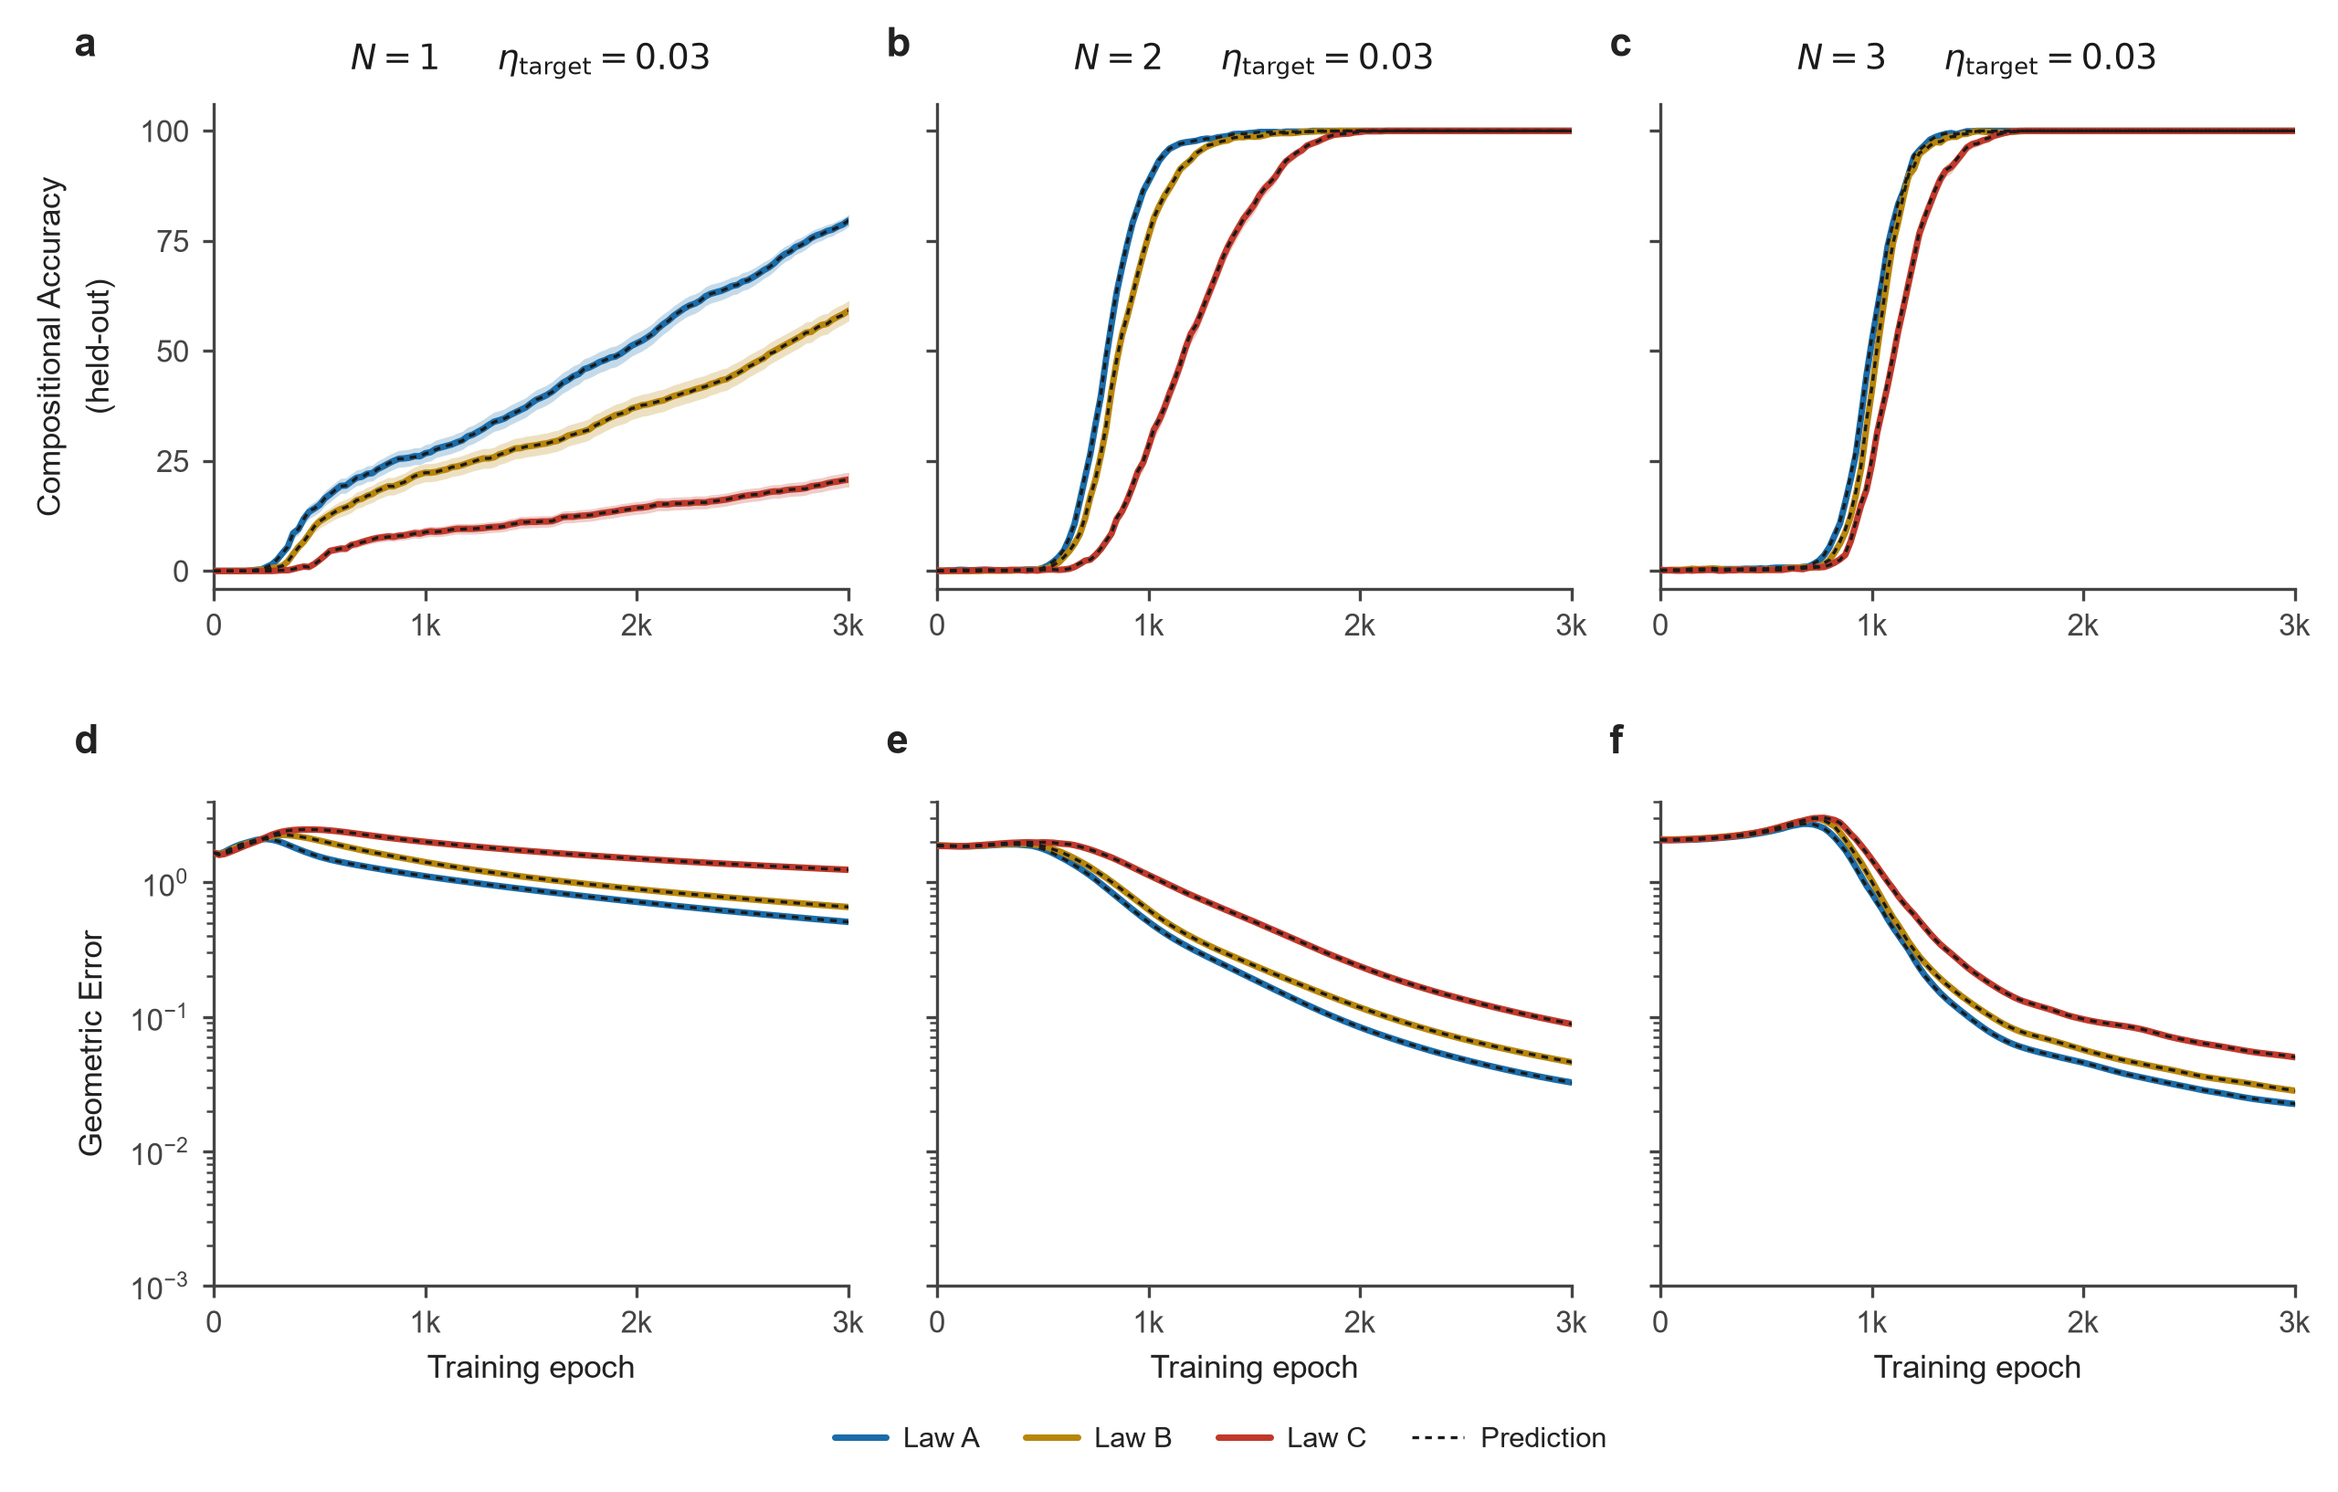
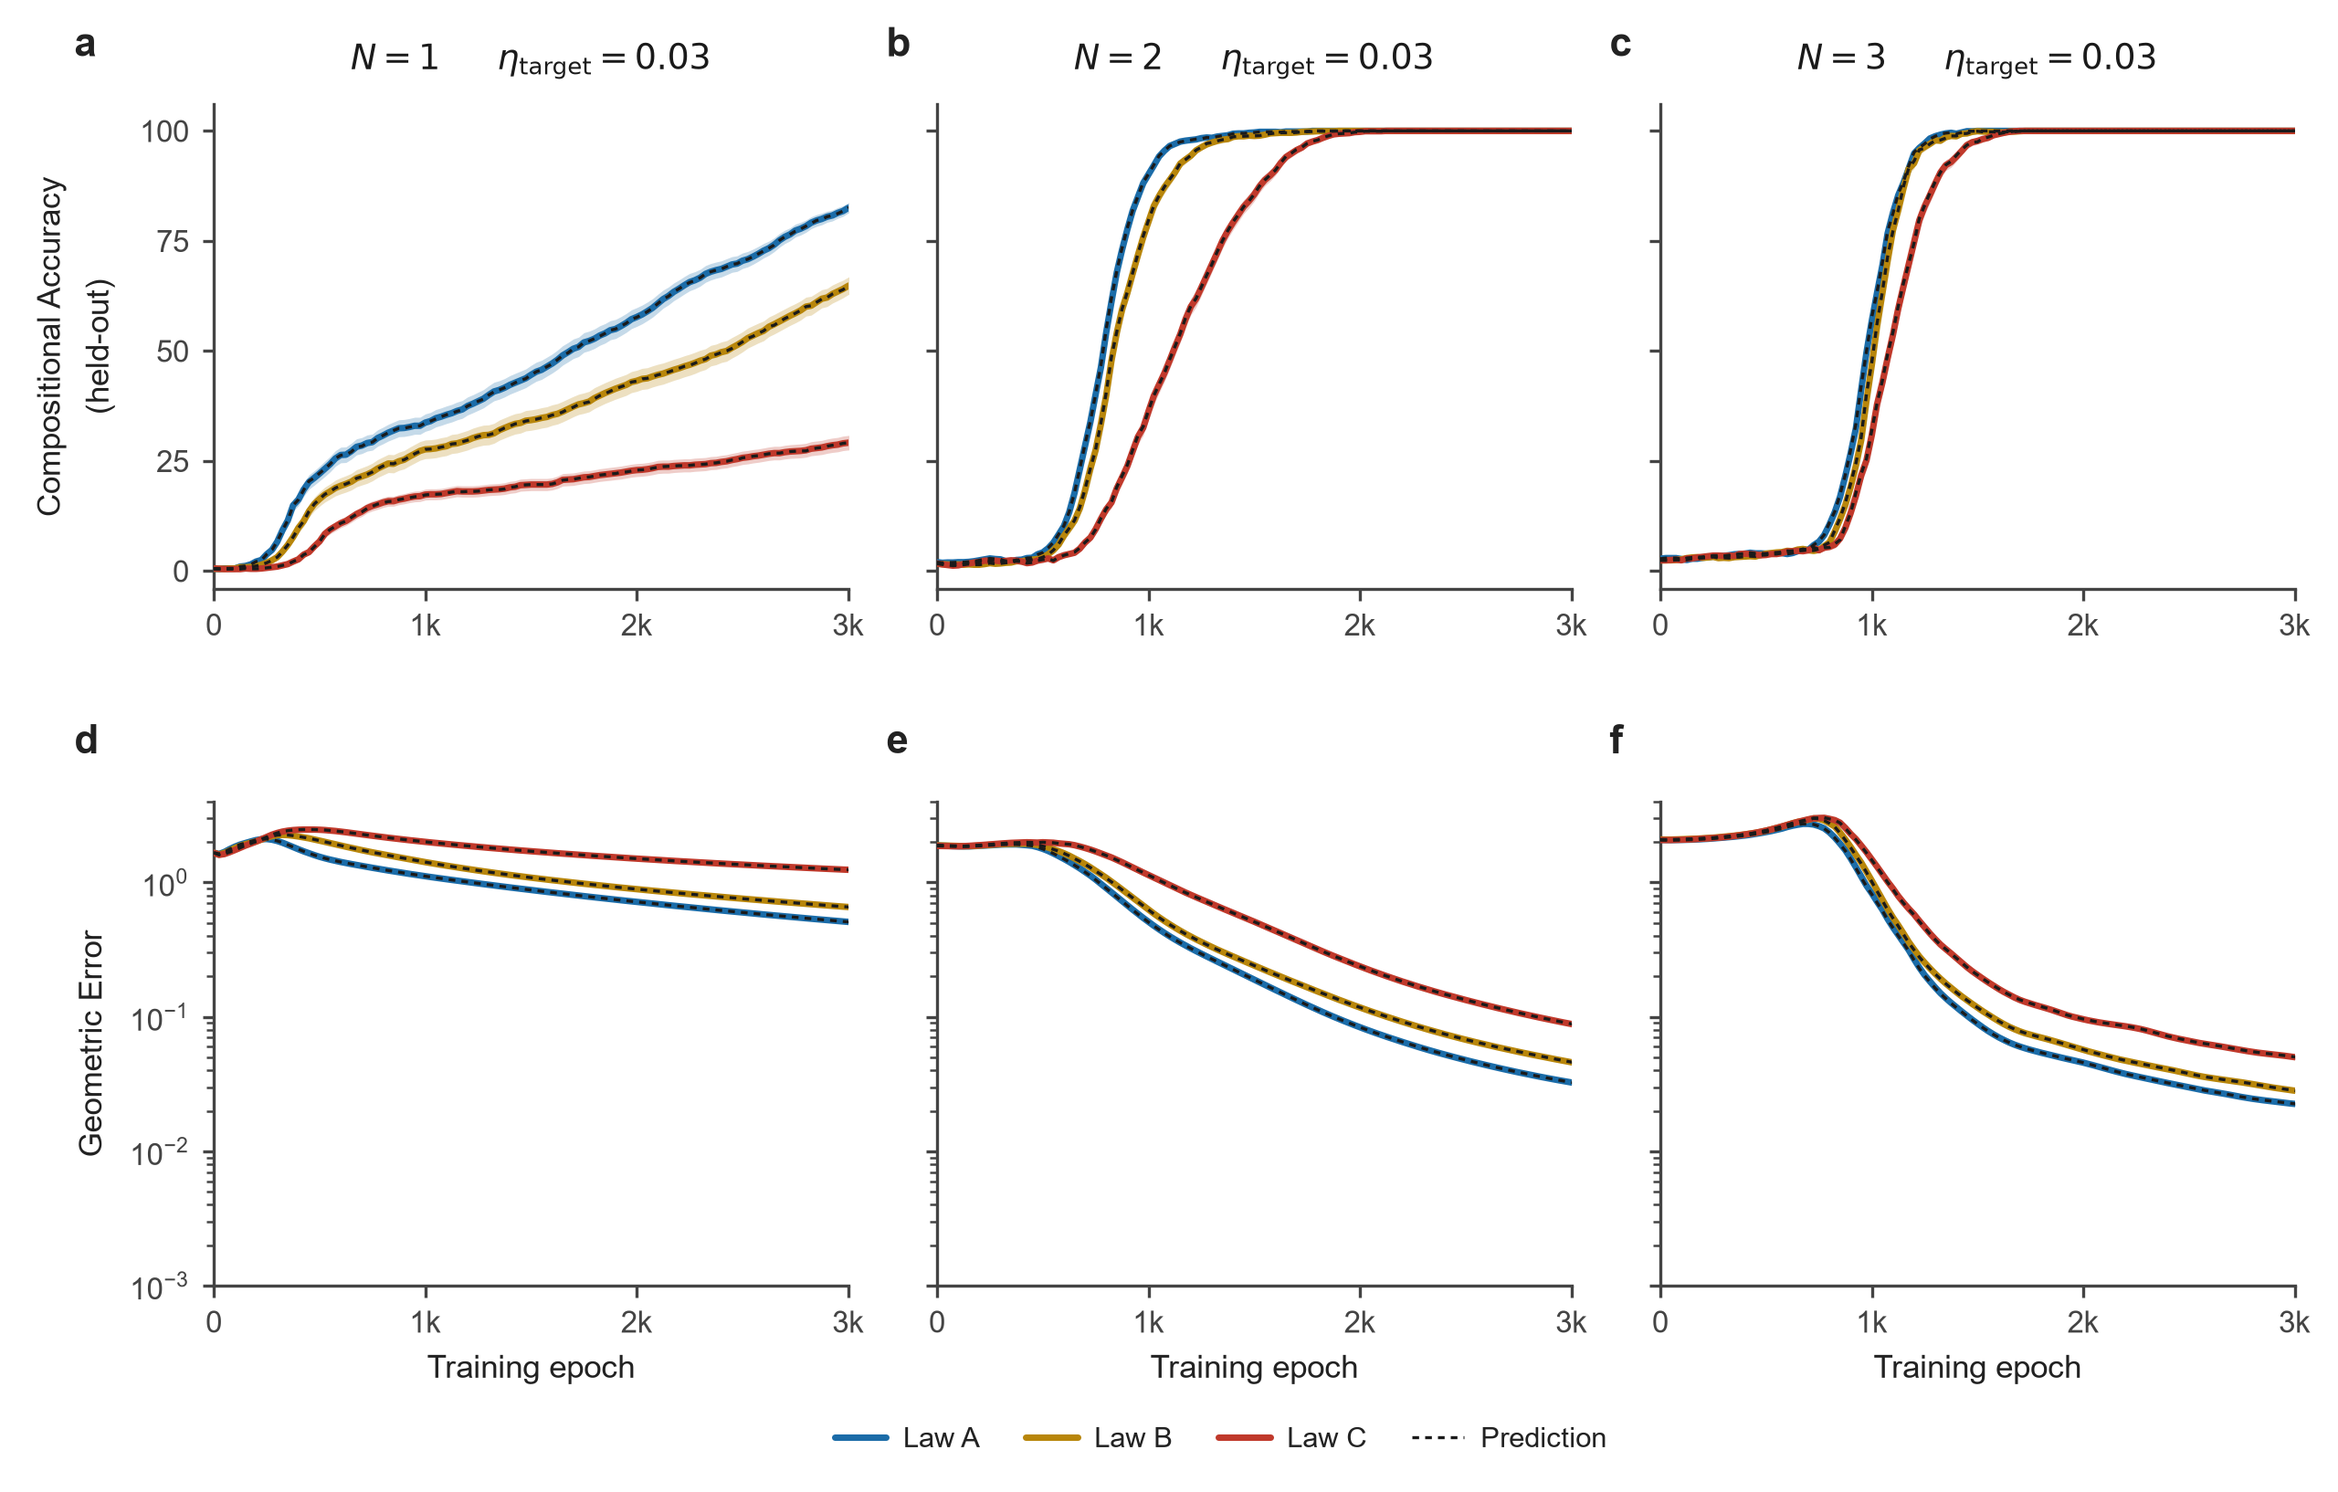
chore: simplified figures to non-baseline adjusted (testing)

diff --git a/code/fig3.py b/code/fig3.py
@@ -4,11 +4,13 @@ Two by three.  Columns are depths, sharing one logarithmic axis of epochs since
 the linking fact.  Nothing before the intervention is drawn.  Both arms leave
 identical pre-switch weights; only one then receives the fact.
 
-Top row is the percentage of the eighty withheld cross-structure comparisons
-answered correctly at each evaluation, rescaled against what the arm scores at
-the switch.  It depends only on the state at that evaluation, so both arms
-start at the same point.  At depth 3 it dips and recovers after the fact, and
-the prediction dips in the same worlds (tests/check_reversals.py).
+Top row is plain held-out accuracy: the percentage of the eighty withheld
+cross-structure comparisons answered correctly at each evaluation, with no
+chance correction.  It depends only on the state at that evaluation, so both
+arms start at the same point.  Without the link the curve sits at a floor of
+about 12 to 17 per cent, because an unresolved offset lands queries on the
+most common targets.  At depth 3 the linked curve dips and recovers, and the
+prediction dips in the same worlds (tests/check_reversals.py).
 
 Bottom row is the distance from the predicted point to the entity it should
 have retrieved, in units of the median spacing between candidates in the same
@@ -51,7 +53,7 @@ YLAB = {"top": "Compositional Accuracy\n(held-out)",
         "bot": "Geometric Error"}
 
 
-MEASURE = "instant"    # behavioural row: "instant" (causal) or "stable" (retrospective)
+MEASURE = "raw"        # behavioural row: "raw" (plain accuracy), "instant" or "stable"
 BAND = "sem"           # "sem", a (lo, hi) percentile pair, or None for min-max
 # What the shading is for decides which of these is right.  A spread band
 # answers "how much do worlds differ", and over twenty worlds min-to-max
@@ -117,8 +119,9 @@ def ticks_for(hi):
 def scorable(rec):
     """Has this world enough wrong at the switch to score anything?
 
-    The behavioural curve is corrected against what the arm scores at the
-    switch, so a world where the undetermined offset already happens to answer
+    Only needed for `MEASURE = "instant"`, where the behavioural curve is
+    corrected against what the arm scores at the switch, so a world where the
+    undetermined offset already happens to answer
     every comparison correctly divides by zero and contributes a curve of NaN.
     One world in a hundred does exactly that at depth 3, and because a NaN
     propagates through the mean it removed the whole depth-3 curve rather than
@@ -137,7 +140,8 @@ def scorable(rec):
 def after(rec, arm, src, key, rescale=False):
     """One arm's series, on an axis of epochs since the linking fact.
 
-    The behavioural curve is chance-corrected against WHAT THE ARM SCORES AT
+    By default the behavioural curve is plain accuracy.  With `MEASURE =
+    "instant"` it is instead chance-corrected against WHAT THE ARM SCORES AT
     THE SWITCH.  At that instant no fact in the world has constrained the
     alignment between the two copies, both arms hold identical weights, and the
     residual is a rigid translation of one copy: measured per item, its spread
@@ -160,7 +164,9 @@ def after(rec, arm, src, key, rescale=False):
     if key == "resolved":
         h = np.array(d["hits"]["cross"], bool)
         k = int(np.argmin(np.abs(ep)))
-        if MEASURE == "instant":
+        if MEASURE == "raw":
+            v = instantaneous(h, chance=0.0)
+        elif MEASURE == "instant":
             v = instantaneous(h, chance=float(h[k].mean()))
         else:
             v = resolved(np.array(d["epochs"], float), h,
@@ -197,7 +203,9 @@ def world_set(sub):
     for s in common:
         if len(good) == N_WORLDS:
             break
-        ok = all(scorable(json.load(open(have[d][s]))) for d in DEPTHS)
+        # plain accuracy never divides by zero, so nothing needs dropping
+        ok = MEASURE == "raw" or all(scorable(json.load(open(have[d][s])))
+                                     for d in DEPTHS)
         (good if ok else bad).append(s)
     return good, bad, have
 

diff --git a/code/fig2.py b/code/fig2.py
@@ -16,11 +16,11 @@ The two counterbalance arms are averaged, because they are the same condition
 with the block labels swapped.  Whether the effect follows the placement rather
 than the label is a separate check and belongs in a supplementary panel.
 
-The behavioural row is instantaneous accuracy over all fifteen held-out
-composites, rescaled so the best constant answer reads as zero.  The control
-therefore sits above zero at depth 1: before the bridge, the undetermined
-composite passes through a region where some worlds already retrieve every
-target, and the theory predicts the same arms (tests/check_degenerate.py).
+The behavioural row is plain held-out accuracy over all fifteen composites,
+with no chance correction.  The control sits above zero at depth 1: before the
+bridge, the undetermined composite passes through a region where some worlds
+already retrieve every target, and the theory predicts the same arms
+(tests/check_degenerate.py).
 """
 
 import glob
@@ -97,7 +97,7 @@ def scorable(rec):
     return int(at_risk(rec, rec["open"]).sum()) >= 2
 
 
-MEASURE = "instant"    # behavioural row: "instant" (causal) or "stable" (retrospective)
+MEASURE = "raw"        # behavioural row: "raw" (plain accuracy), "instant" or "stable"
 BAND = "sem"           # "sem", a (lo, hi) percentile pair, or None for min-max
 # What the shading is for decides which of these is right.  A spread band
 # answers "how much do worlds differ", and each world's behavioural curve here
@@ -156,11 +156,12 @@ def after(rec, arm, src, key, law, restrict=True):
     d = rec["arms"][arm][src]
     ep = np.array(d["epochs"], float) - rec["t_switch"]
     m = ep >= 0
-    if key == "resolved" and MEASURE == "instant":
-        # every item, against the best constant answer; no at-risk restriction,
-        # which existed only to cancel the look-ahead in `resolved`
+    if key == "resolved" and MEASURE in ("instant", "raw"):
+        # every item, against the best constant answer or, for "raw", against
+        # nothing; no at-risk restriction, which existed only to cancel the
+        # look-ahead in `resolved`
         h = np.array(d["hits"][law], bool)
-        v = instantaneous(h, chance=1.0 / h.shape[1])
+        v = instantaneous(h, chance=0.0 if MEASURE == "raw" else 1.0 / h.shape[1])
     elif key == "resolved" and not restrict:
         # every item in every arm, against the best constant answer over all
         # fifteen.  Shown only to make visible what the restriction removes;
@@ -223,9 +224,8 @@ def main(exclude=None, out="fig2_identifiability.png"):
     Both exist only for the retrospective measure, whose look-ahead made two
     arms with identical switch weights score differently; restricting to the
     items still wrong at the switch cancelled that, at the price of dropping
-    arms with nothing left to score.  The instantaneous measure has no
-    look-ahead, so by default nothing is excluded and every arm and item is
-    scored.  The arms that used to be dropped are a transient in the
+    arms with nothing left to score.  Plain accuracy has no look-ahead, so by
+    default nothing is excluded and every arm and item is scored.  The arms that used to be dropped are a transient in the
     undetermined composite that the theory itself predicts
     (tests/check_degenerate.py).
     """

diff --git a/code/tests/check_reversals.py b/code/tests/check_reversals.py
@@ -1,7 +1,8 @@
 """How often does instantaneous accuracy fall, and does the theory fall with it?
 
 The behavioural row switched from stable resolution, which reads the future,
-to instantaneous chance-corrected accuracy, which does not.  The cost of the
+to plain instantaneous accuracy, which does not.  Each figure's own `MEASURE`
+decides whether a chance correction is applied, so this checks what is drawn.  The cost of the
 switch is that a curve can fall when a single held-out item crosses back over
 the retrieval boundary.  This measures that cost where it could matter:
 
@@ -47,7 +48,7 @@ def chance_const(h):
 
 
 def figure1():
-    print("Figure 1, from initialisation, chance = best constant answer")
+    print("Figure 1, from initialisation, measure %r" % fig1.MEASURE)
     for d in DEPTHS:
         recs = [json.load(open(f)) for f in fig1.cells(d)]
         for lab, law in zip("ABC", fig1.LAWS):
@@ -56,12 +57,14 @@ def figure1():
                 c[src] = []
                 for r in recs:
                     h = np.array(r[src]["hits"][law], bool)
-                    c[src].append(instantaneous(h, chance=chance_const(h)))
+                    ch = 0.0 if fig1.MEASURE == "raw" else chance_const(h)
+                    c[src].append(instantaneous(h, chance=ch))
             row("N=%d law %s" % (d, lab), c["net"], c["pred"])
 
 
 def figure2():
-    print("Figure 2, open law, after the bridge, every arm and item")
+    print("Figure 2, open law, after the bridge, every arm and item, measure %r"
+          % fig2.MEASURE)
     seeds, _, arms = fig2.world_set(keep_all=True)
     for d in DEPTHS:
         c = {(a, s): [] for a in ("hold", "insert") for s in ("net", "pred")}
@@ -72,13 +75,14 @@ def figure2():
                     dd = r["arms"][arm][src]
                     ep = np.array(dd["epochs"], float) - r["t_switch"]
                     h = np.array(dd["hits"][r["open"]], bool)[ep >= 0]
-                    c[arm, src].append(instantaneous(h, chance=chance_const(h)))
+                    ch = 0.0 if fig2.MEASURE == "raw" else chance_const(h)
+                    c[arm, src].append(instantaneous(h, chance=ch))
         for arm in ("hold", "insert"):
             row("N=%d %s" % (d, arm), c[arm, "net"], c[arm, "pred"])
 
 
 def figure3():
-    print("Figure 3, after the link, chance = score at the switch")
+    print("Figure 3, after the link, measure %r" % fig3.MEASURE)
     seeds, _, have = fig3.world_set("f3_lr0p003")
     for d in DEPTHS:
         c = {(a, s): [] for a in ("hold", "insert") for s in ("net", "pred")}
@@ -89,8 +93,8 @@ def figure3():
                 ep = np.array(dd["epochs"], float) - r["t_switch"]
                 h = np.array(dd["hits"]["cross"], bool)
                 k0 = int(np.argmin(np.abs(ep)))
-                c[arm, src].append(instantaneous(h[ep >= 0],
-                                                 chance=float(h[k0].mean())))
+                ch = 0.0 if fig3.MEASURE == "raw" else float(h[k0].mean())
+                c[arm, src].append(instantaneous(h[ep >= 0], chance=ch))
         for arm in ("hold", "insert"):
             row("N=%d %s" % (d, arm), c[arm, "net"], c[arm, "pred"])
 

diff --git a/code/fig1.py b/code/fig1.py
@@ -5,15 +5,15 @@ acceleration with depth is visible rather than hidden by per-column scaling.
 Top row is the behavioural measure, bottom row the geometric one, with the
 parameter-free prediction overlaid on every curve.
 
-The behavioural measure is the percentage of a law's held-out composites
-answered correctly AT each evaluation, rescaled so that the best constant
-answer reads as zero.  An earlier version counted an item as stably resolved
-from the first evaluation after its last failure.  That reads the future: the
-value at one epoch depends on what happens after it, so two runs holding the
-same weights could score differently.  The instantaneous measure can fall when
-a single item crosses back over the retrieval boundary, and at depth 3 it does
-in individual worlds, but the prediction falls in the same worlds and across
-two hundred worlds no drawn curve falls by more than half a point
+The behavioural measure is plain held-out accuracy: the percentage of a law's
+held-out composites answered correctly AT each evaluation, with no chance
+correction.  An earlier version counted an item as stably resolved from the
+first evaluation after its last failure.  That reads the future: the value at
+one epoch depends on what happens after it, so two runs holding the same
+weights could score differently.  Plain accuracy depends only on the state at
+that epoch.  It can fall when a single item crosses back over the retrieval
+boundary, and at depth 3 it does in individual worlds, but the prediction
+falls in the same worlds and the drawn curves barely move
 (tests/check_reversals.py).
 
 Three laws are drawn rather than all sixteen.  Sixteen curves plus sixteen
@@ -47,7 +47,7 @@ DEPTHS = (1, 2, 3)
 PRED = dict(color=DARK, lw=0.8, ls=(0, (2.2, 2.0)), zorder=6)
 LAWS = worlds.F1_LAWS  # Law A, B, C -- fixed by design, see worlds.F1_LAWS
 LAW_COLOURS = ("#1b6ca8", "#b8860b", "#c0392b")  # matches F2/F3
-MEASURE = "instant"    # behavioural row: "instant" (causal) or "stable" (retrospective)
+MEASURE = "raw"        # behavioural row: "raw" (plain accuracy), "instant" or "stable"
 BAND = "sem"           # "sem", a (lo, hi) percentile pair, or None for min-max
 # Matches fig3.  What the shading is for decides which of these is right.  A
 # spread band answers "how much do worlds differ", and it does not narrow as
@@ -96,6 +96,8 @@ def stack(recs, src, key, law, ep):
     if key == "resolved":
         H = [np.array(r[src]["hits"][law], bool) for r in recs]
         # zero means "no better than answering the same entity every time"
+        if MEASURE == "raw":
+            return np.array([instantaneous(h, chance=0.0) for h in H])
         if MEASURE == "instant":
             return np.array([instantaneous(h, chance=1.0 / h.shape[1]) for h in H])
         return np.array([resolved(ep, h, chance=1.0 / h.shape[1]) for h in H])
